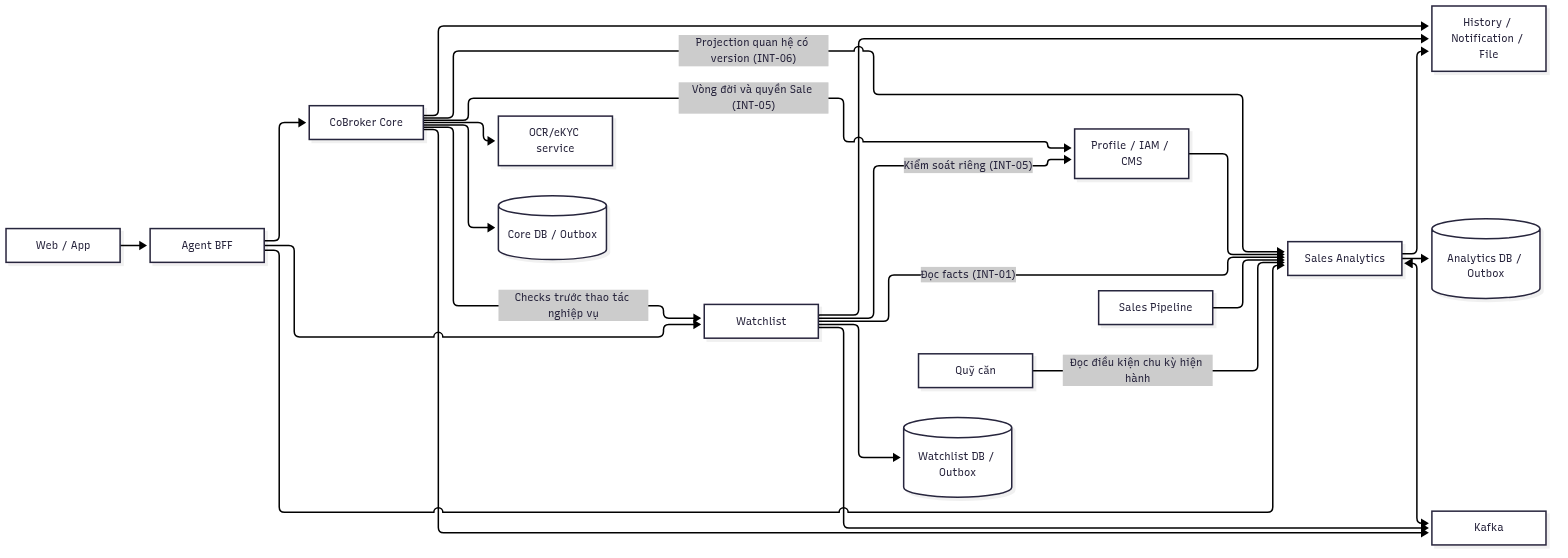
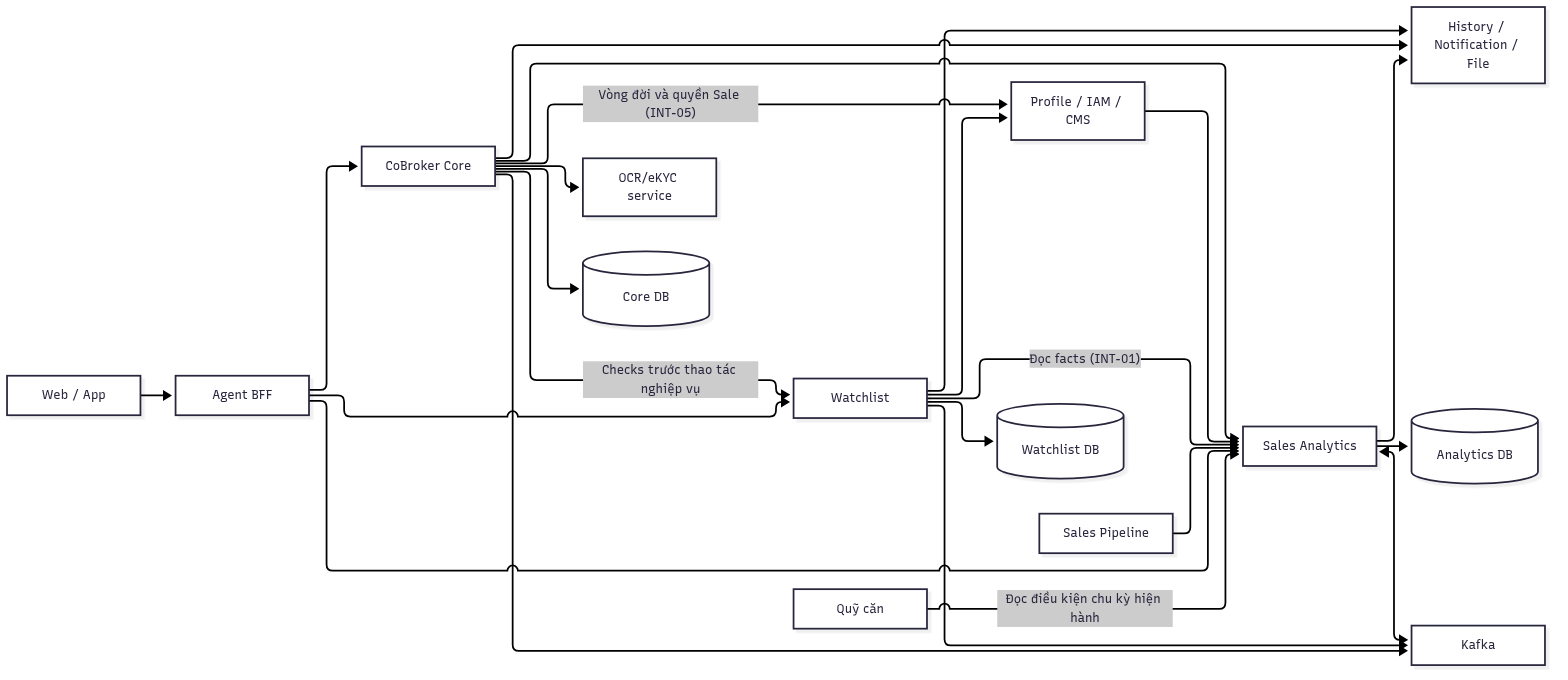
docs: simplify architecture diagram labels

diff --git a/cobroker/ttd-cobroker.md b/cobroker/ttd-cobroker.md
@@ -101,17 +101,17 @@ flowchart LR
     C --> E["OCR/eKYC service"]
     C -->|"Vòng đời và quyền Sale (INT-05)"| P["Profile / IAM / CMS"]
     P --> A
-    C -->|"Projection quan hệ có version (INT-06)"| A
+    C --> A
     D["Sales Pipeline"] --> A
     W -->|"Đọc facts (INT-01)"| A
-    W -->|"Kiểm soát riêng (INT-05)"| P
+    W --> P
     C --> H["History / Notification / File"]
     W --> H
     A --> H
     Q["Quỹ căn"] -->|"Đọc điều kiện chu kỳ hiện hành"| A
-    C --> CD[("Core DB / Outbox")]
-    A --> AD[("Analytics DB / Outbox")]
-    W --> WD[("Watchlist DB / Outbox")]
+    C --> CD[("Core DB")]
+    A --> AD[("Analytics DB")]
+    W --> WD[("Watchlist DB")]
     A <--> K["Kafka"]
     W --> K
     C --> K
@@ -1119,7 +1119,7 @@ ARM tạo yêu cầu và snapshot; ASA chỉnh nháp rồi gửi duyệt; ARM xe
 ```mermaid
 sequenceDiagram
     participant J as Bộ điều phối
-    participant D as Database và Outbox
+    participant D as Analytics DB
     participant P as Outbox publisher
     participant K as Kafka
     participant W as Worker
@@ -1417,9 +1417,9 @@ flowchart TB
     W --> K
     C --> K
     C -->|"Vòng đời và quyền Sale (INT-05)"| P["Profile / IAM / CMS"]
-    W -->|"Thrift: kiểm soát riêng (INT-05)"| P
+    W -->|"Thrift"| P
     P --> A
-    C -->|"Projection quan hệ có version (INT-06)"| A
+    C --> A
     PL["Pipeline"] --> A
     W -->|"REST: đọc facts (INT-01)"| A
     C --> F["File Service"]
